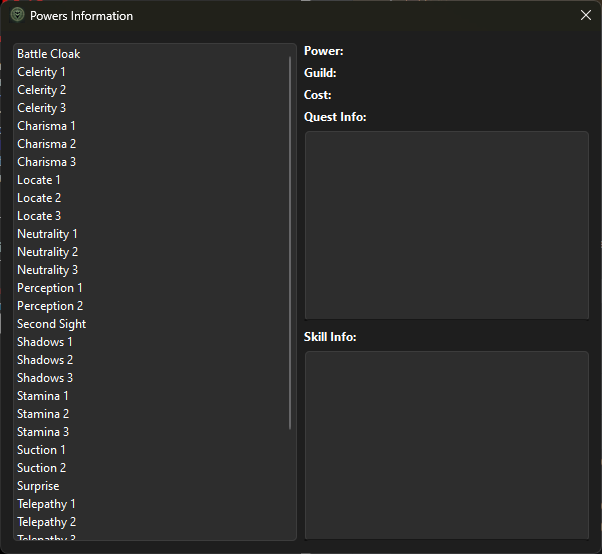
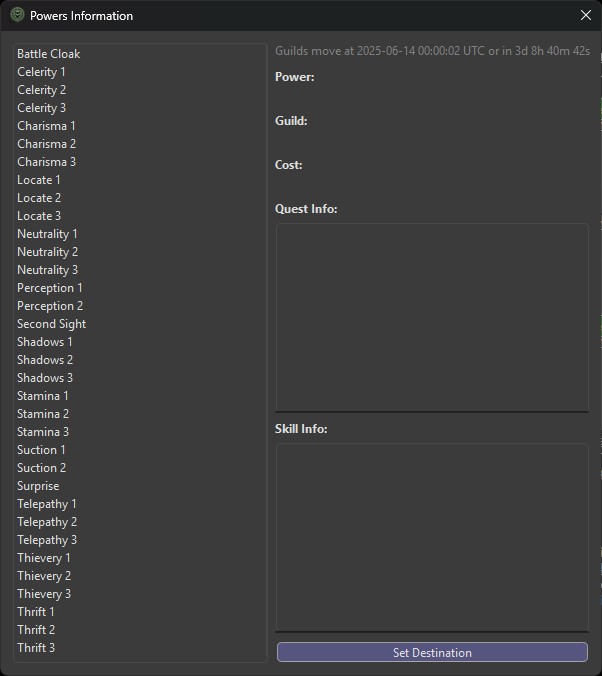
Readme

Changed region(s): [[0.0, 0.0, 1.0, 1.0]]

diff --git a/testing/main_0.12.2.py b/testing/main_0.12.2.py
@@ -6077,7 +6077,8 @@ class Scraper:
         if name.startswith("Peacekkeepers Mission"):
             name = name.replace("Peacekkeepers", "Peacekeepers", 1)
         name = name.lstrip("*_~").rstrip("*_~")
-        return self.nickname_map.get(name, name)
+        name = self.nickname_map.get(name, name)
+        return name.title()
 
     def update_database(self, data, table, next_update):
         scrape_timestamp = datetime.now(timezone.utc).strftime('%Y-%m-%d %H:%M:%S')
@@ -6086,6 +6087,7 @@ class Scraper:
             with sqlite3.connect(DB_PATH) as conn:
                 cursor = conn.cursor()
 
+                # Invalidate old data first
                 if table == "guilds":
                     cursor.execute(f"""
                         UPDATE {table}
@@ -6098,24 +6100,30 @@ class Scraper:
                         SET `Column`='NA', `Row`='NA', `next_update`=?, `last_scraped`=?
                     """, (next_update, scrape_timestamp))
 
+                # Update only existing records
                 for name, column, row in data:
-                    if table == "shops" and "Peacekeepers Mission" in name:
-                        logging.warning(f"Skipping {name} as it belongs in guilds, not shops.")
+                    # Normalize and title-case name
+                    normalized_name = self.normalize_name(name).title()
+
+                    # Skip misplaced Peacekeepers
+                    if table == "shops" and "Peacekeepers Mission" in normalized_name:
+                        logging.warning(f"Skipping {normalized_name} as it belongs in guilds, not shops.")
                         continue
 
                     try:
                         cursor.execute(f"""
-                            INSERT INTO {table} (Name, `Column`, `Row`, `next_update`, `last_scraped`)
-                            VALUES (?, ?, ?, ?, ?)
-                            ON CONFLICT(Name) DO UPDATE SET
-                                `Column`=excluded.`Column`,
-                                `Row`=excluded.`Row`,
-                                `next_update`=excluded.`next_update`,
-                                `last_scraped`=excluded.`last_scraped`
-                        """, (name, column, row, next_update, scrape_timestamp))
-                    except sqlite3.Error as e:
-                        logging.error(f"Failed to update {table} entry '{name}': {e}")
+                            UPDATE {table}
+                            SET `Column`=?, `Row`=?, `next_update`=?, `last_scraped`=?
+                            WHERE Name=?
+                        """, (column, row, next_update, scrape_timestamp, normalized_name))
 
+                        if cursor.rowcount == 0:
+                            logging.warning(f"Skipped update for '{normalized_name}' — not found in {table}.")
+
+                    except sqlite3.Error as e:
+                        logging.error(f"Failed to update {table} entry '{normalized_name}': {e}")
+
+                # Peacekeepers are always ensured
                 if table == "guilds":
                     cursor.executemany(f"""
                         INSERT INTO {table} (Name, `Column`, `Row`, `next_update`, `last_scraped`)

diff --git a/README.md b/README.md
@@ -22,6 +22,8 @@ This project is an attempt to create an interactive map coded in Python for use 
   - **Set Destination**: Click "Set Destination" to mark the destination on the map.
   - **Green Line**: Paints a green line on the map to the destination.
 - **Customizable Themes**: Personalize the minimap and interface themes for a more customized experience.
+- **Rendering Fixes**: Improved fallback minimap rendering and stability in zoomed views.
+- **Auto-Refreshing Dropdowns**: Destination list updates dynamically when the dialog is opened.
 
 ![Minimap Theme](Screenshots/Minimap%20Theme.png "Minimap Theme")
 
@@ -32,6 +34,7 @@ This project is an attempt to create an interactive map coded in Python for use 
 - **Local Data Storage**:
   - User data is securely stored in a local SQLite database.
   - No user data is stored on external servers.
+- **Session Persistence**: Destination, theme, and other settings are restored across sessions.
 
 ![New User Dialog](Screenshots/New%20User%20Dialog.png "New User Dialog")
 
@@ -40,6 +43,7 @@ This project is an attempt to create an interactive map coded in Python for use 
 ### 3) Keybinding Support (NEW in v0.10.3)
 - **WASD and Arrow Key Movement**: Toggle between **WASD** and **Arrow Key** navigation.
 - **Persistent Settings**: Keybinding configuration is stored in SQLite for consistency across sessions.
+- **Input Protection**: Movement keys are disabled when typing in input fields to avoid accidental moves.
 
 ---
 
@@ -47,6 +51,7 @@ This project is an attempt to create an interactive map coded in Python for use 
 - Create and manage shopping lists for in-game items.
 - Automatically calculate total costs for required items.
 - View available coins and plan purchases accordingly.
+- **Countdown Timer**: Displays time until the next shop update based on AVITD scrape.
 
 ![Shopping List Tool](Screenshots/Shopping%20List%20Tool.png "Shopping List Tool")
 
@@ -56,7 +61,9 @@ This project is an attempt to create an interactive map coded in Python for use 
 - **Modify Interface Styling**: Customize the UI with CSS modifications.
 - **New Features**: **Box Shadow, Font Selection, and Background Image Support**.
 - **Live Preview**: See CSS changes in real-time before applying them.
+
 ![CSS Customization Tool](Screenshots/CSS%20Customization%20Dialog.png "CSS Customization Tool")
+
 ---
 
 ### 6) Database Viewer
@@ -77,6 +84,7 @@ This project is an attempt to create an interactive map coded in Python for use 
 
 ### 8) Power Information
 - View detailed information about the powers available in the game, including their descriptions, costs, and effects.
+- **Countdown Timer**: Displays time remaining until next guild move.
 
 ![Power Information](Screenshots/Power%20Information.png "Power Information")
 
@@ -111,6 +119,7 @@ The RBC City Map Application is licensed under the [Apache License 2.0](https://
 - [**A View in the Dark**](https://aviewinthedark.net/) by Cliff Burton, providing the source for shops and guilds data.
 - [**RavenBlack Wiki**](https://ravenblack.city/) contributors.
 - **Anders** for **RBNav** and ongoing support.
+- **Vespertine** for [**Vespertine's City Crawler**](https://vampires.terrible.engineering/) providing additional sources for shop and guild data.
 
 ---
 
